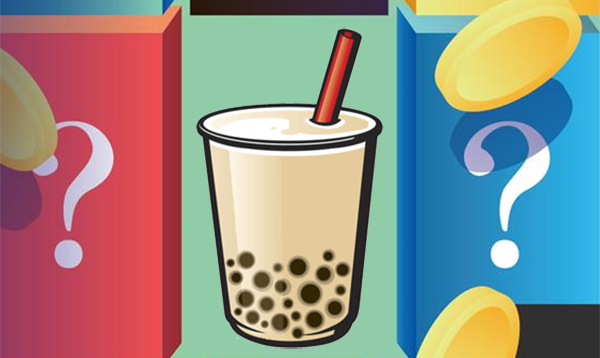
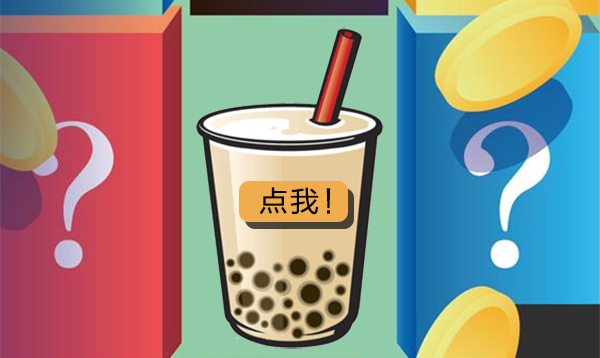
add floatlayer

Changed region(s): [[0.39, 0.4916, 0.6, 0.6453]]

diff --git a/exercise/floatlayer.html b/exercise/floatlayer.html
@@ -1,0 +1,78 @@
+<!doctype html>
+<html>
+    <head>
+        <!--引入JQuery文件-->
+        <script type="text/javascript" src="https://cdnjs.cloudflare.com/ajax/libs/jquery/3.3.1/jquery.min.js"></script>
+        <title>浮层的简单原理</title>
+        <style>
+        body
+        {
+            margin: 0;
+            padding: 0;
+            background-color: silver;
+        }
+        a
+        {
+            display: inline-block;
+            width: 100px;
+            height: 50px;
+            font:normal normal normal 18px/50px 'Microsoft Yahei';
+            background-color: #00b3ee;
+            text-align: center;
+            margin: 100px 200px;
+            text-decoration: none;
+            border-radius: 5px;
+        }
+        #fullScreen
+        {
+            position: fixed;
+            width: 100%;
+            height: 100%;
+            left: 0;
+            top: 0;
+            opacity: 0.7;
+            background-color: black;
+            z-index: 9999;
+        }
+        /*浮层,可随意设置大小宽高，但是z-index必须比上面fullScreen大才能显示出来*/
+        #floatLayer
+        {
+            position: fixed;
+            width: 500px;
+            height: 500px;
+            left: 34%;
+            top: 15%;
+            background-color: white;
+            z-index: 10000;
+        }
+        </style>
+    </head>
+    <body>
+        <a href="#" id="show">出现浮层</a>
+    </body>
+</html>
+<script>
+    $("document").ready(function()
+    {
+        //点击弹出浮层
+        $("#show").click(function()
+        {
+            //清除之前的样式
+            $("#fullScreen,#floatLayer").remove();
+            $("body").append
+            (
+                //占据整个屏幕Div
+                "<div id='fullScreen'></div>"+
+                //浮层区
+                "<div id='floatLayer'>" +
+                    "<a href='#' id='hide'>隐藏浮层</a>"+
+                "</div>"
+            );
+            //隐藏浮层
+            $("#hide").click(function()
+            {
+                $("#fullScreen,#floatLayer").remove();
+            });
+        });
+    });
+</script>

diff --git a/exercise/BTA/home.html b/exercise/BTA/home.html
@@ -16,9 +16,6 @@
         <link rel="stylesheet" href="https://cdn.datatables.net/1.10.19/css/jquery.dataTables.min.css">
         <script type="text/javascript" language="javascript" src="https://cdn.datatables.net/1.10.19/js/dataTables.bootstrap.min.js"></script>
         <script type="text/javascript" src="https://cdn.datatables.net/1.10.19/js/jquery.dataTables.min.js"></script>
-        <link rel="stylesheet" href="https://cdnjs.cloudflare.com/ajax/libs/leaflet/1.3.4/leaflet.css">
-        <script src="https://cdnjs.cloudflare.com/ajax/libs/leaflet/1.3.4/leaflet.js"></script>
-        <script src="https://api.tiles.mapbox.com/mapbox.js/plugins/leaflet-markercluster/v0.4.0/leaflet.markercluster.js"></script>
         <link rel="stylesheet" href="theme.css">
         <link rel="stylesheet" href="style.css">
         <script src="barchart.js"></script>
@@ -108,8 +105,8 @@
                     <h4>今日盲盒</h4>
                     <h6>天灵灵，抽出你的幸运茶！</h6>
                     <div class="row">
-                        <div class="col-md-4">
-                            <img src="imge\1125004732_1568691426695_title0h.png" class="img-responsive">
+                        <div class="col-md-4" id="mangheclick">
+                            <img src="image/1125004732_1568691426695_title0h.png" class="img-responsive" style="cursor: pointer;">
                         </div>
                     </div>
                 </div>

diff --git a/exercise/BTA/barchart.js b/exercise/BTA/barchart.js
@@ -62,4 +62,26 @@ $(document).ready(function(){
             $("button#get_barchart").css({"background-color":"#f0ad4e", "border-color":"#eea236"});
           }
     });
+
+    //点击弹出浮层
+    $("#mangheclick").click(function()
+    {
+        //清除之前的样式
+        $("#fullScreen,#floatLayer").remove();
+        $("body").append
+        (
+            //占据整个屏幕Div
+            "<div id='fullScreen'></div>"+
+            //浮层区
+            "<div id='floatLayer'>" +
+                "<a href='#' id='hide'>关闭</a>"+
+                "<iframe class='airtable-embed' src='https://airtable.com/embed/shr76XdaN525nvktm?backgroundColor=gray&viewControls=on' frameborder='0' onmousewheel='' width='100%' height='533' style='background: transparent; border: 1px solid #ccc;'></iframe>"+
+            "</div>"
+        );
+        //隐藏浮层
+        $("#hide").click(function()
+        {
+            $("#fullScreen,#floatLayer").remove();
+        });
+    });
 });

diff --git a/exercise/BTA/style.css b/exercise/BTA/style.css
@@ -11,3 +11,26 @@ text-align:center;
     width: fit-content;
     padding: 5px
 }
+ /*人为制造一个占据整个屏幕的Div,其透明度为0.7且z-index为9999使之前的页面被压在底层无法点击*/
+ #fullScreen
+ {
+     position: fixed;
+     width: 100%;
+     height: 100%;
+     left: 0;
+     top: 0;
+     opacity: 0.7;
+     background-color: black;
+     z-index: 9999;
+ }
+ /*浮层,可随意设置大小宽高，但是z-index必须比上面fullScreen大才能显示出来*/
+ #floatLayer
+ {
+     position: fixed;
+     width: 300px;
+     height: 300px;
+     left: 10%;
+     top: 15%;
+     background-color: white;
+     z-index: 10000;
+ }
